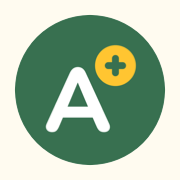
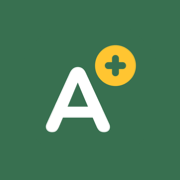
Iteración 2 · bloques B y C: FAB y botones MD3, icono y reinicio diario
- FAB: el «+» gira a «×» y el botón abierto es un círculo
- Connected button group sin esquinas cortadas (radios en px reales)
- Iconos de Android e iPhone sobre fondo verde
- Datos de demo reiniciados cada día en modo demo (DemoDailyResetService, con tests)

diff --git a/backend/src/seed/demo-daily-reset.service.ts b/backend/src/seed/demo-daily-reset.service.ts
@@ -1,0 +1,70 @@
+import {
+  Injectable,
+  Logger,
+  OnApplicationBootstrap,
+  OnModuleDestroy,
+} from '@nestjs/common';
+import { InjectModel } from '@nestjs/mongoose';
+import { Model } from 'mongoose';
+import { AppConfigService } from '../config/app-config.service.js';
+import { Preferences } from '../preferences/preferences.schema.js';
+import { User } from '../users/user.schema.js';
+import { DemoSeedService } from './demo-seed.service.js';
+
+const CHECK_EVERY_MS = 30 * 60 * 1000;
+
+/**
+ * Modo demo: los datos del usuario de demo están pensados para «hoy».
+ * Al arrancar y cada 30 minutos se mira si se crearon otro día; si es así, se reinician.
+ * (Lo que se haya apuntado ese mismo día se conserva hasta el día siguiente.)
+ */
+@Injectable()
+export class DemoDailyResetService
+  implements OnApplicationBootstrap, OnModuleDestroy
+{
+  private readonly logger = new Logger(DemoDailyResetService.name);
+  private timer: NodeJS.Timeout | null = null;
+  private running = false;
+
+  constructor(
+    private readonly appConfig: AppConfigService,
+    private readonly seed: DemoSeedService,
+    @InjectModel(User.name) private readonly users: Model<User>,
+    @InjectModel(Preferences.name) private readonly prefs: Model<Preferences>,
+  ) {}
+
+  onApplicationBootstrap(): void {
+    if (!this.appConfig.demoDailyReset) return;
+    if (!this.appConfig.demoUserEmail || !this.appConfig.demoUserPassword)
+      return;
+    void this.check();
+    this.timer = setInterval(() => void this.check(), CHECK_EVERY_MS);
+    this.timer.unref();
+  }
+
+  onModuleDestroy(): void {
+    if (this.timer) clearInterval(this.timer);
+  }
+
+  /** Reinicia si los datos de demo no son de hoy. Devuelve si ha reiniciado. */
+  async check(): Promise<boolean> {
+    if (this.running) return false;
+    this.running = true;
+    try {
+      const email = this.appConfig.demoUserEmail.trim().toLowerCase();
+      const user = await this.users.findOne({ email }).lean().exec();
+      const prefs = user
+        ? await this.prefs.findOne({ user: user._id }).lean().exec()
+        : null;
+      if (prefs?.demoSeededOn === this.appConfig.today) return false;
+      await this.seed.reset(email, this.appConfig.demoUserPassword);
+      this.logger.log(`Datos de demo reiniciados para el ${this.appConfig.today}`);
+      return true;
+    } catch (err) {
+      this.logger.error(`No se han podido reiniciar los datos de demo: ${String(err)}`);
+      return false;
+    } finally {
+      this.running = false;
+    }
+  }
+}

diff --git a/backend/src/seed/demo-daily-reset.service.spec.ts b/backend/src/seed/demo-daily-reset.service.spec.ts
@@ -1,0 +1,61 @@
+import { ConfigService } from '@nestjs/config';
+import type { Model } from 'mongoose';
+import { AppConfigService } from '../config/app-config.service.js';
+import type { Preferences } from '../preferences/preferences.schema.js';
+import type { User } from '../users/user.schema.js';
+import { DemoDailyResetService } from './demo-daily-reset.service.js';
+import type { DemoSeedService } from './demo-seed.service.js';
+
+const env = {
+  DEMO_MODE: 'true',
+  DEMO_TODAY: '2026-11-25',
+  DEMO_USER_EMAIL: 'demo@apunta.cat',
+  DEMO_USER_PASSWORD: 'contrasenya-demo',
+};
+const query = <T>(value: T) => ({
+  lean: () => ({ exec: () => Promise.resolve(value) }),
+});
+
+function make(seededOn: string | null, userExists = true) {
+  const reset = vi.fn().mockResolvedValue({});
+  const users = {
+    findOne: () => query(userExists ? { _id: 'u1' } : null),
+  } as unknown as Model<User>;
+  const prefs = {
+    findOne: () => query(seededOn === undefined ? null : { demoSeededOn: seededOn }),
+  } as unknown as Model<Preferences>;
+  const service = new DemoDailyResetService(
+    new AppConfigService(new ConfigService(env)),
+    { reset } as unknown as DemoSeedService,
+    users,
+    prefs,
+  );
+  return { service, reset };
+}
+
+describe('DemoDailyResetService', () => {
+  it('reinicia si los datos de demo son de otro día', async () => {
+    const { service, reset } = make('2026-11-24');
+    expect(await service.check()).toBe(true);
+    expect(reset).toHaveBeenCalledWith('demo@apunta.cat', 'contrasenya-demo');
+  });
+
+  it('no reinicia si ya son de hoy', async () => {
+    const { service, reset } = make('2026-11-25');
+    expect(await service.check()).toBe(false);
+    expect(reset).not.toHaveBeenCalled();
+  });
+
+  it('crea los datos si el usuario de demo no existe', async () => {
+    const { service, reset } = make(null, false);
+    expect(await service.check()).toBe(true);
+    expect(reset).toHaveBeenCalled();
+  });
+
+  it('DEMO_DAILY_RESET=false lo apaga', () => {
+    const config = new AppConfigService(
+      new ConfigService({ ...env, DEMO_DAILY_RESET: 'false' }),
+    );
+    expect(config.demoDailyReset).toBe(false);
+  });
+});

diff --git a/frontend/src/app/shared/components/button-group/button-group.ts b/frontend/src/app/shared/components/button-group/button-group.ts
@@ -35,7 +35,10 @@ export interface ButtonGroupOption {
     </div>
   `,
   styles: `
-    .group { display: flex; gap: var(--space-25); }
+    /* Connected button group (MD3 Expressive): 2 dp entre opciones, extremos redondos, interiores de 8.
+       Radios en px reales (mitad de la altura): con 9999px el navegador reducía también las esquinas
+       interiores y la opción no elegida parecía cortada. */
+    .group { --round: calc(var(--size-button-s) / 2); display: flex; gap: var(--space-25); }
     .option {
       position: relative;
       flex: 1;
@@ -54,9 +57,10 @@ export interface ButtonGroupOption {
     .option::after { content: ''; position: absolute; inset: 0; border-radius: inherit; background: currentColor; opacity: 0; transition: opacity var(--motion-effects); }
     .option:hover::after { opacity: var(--opacity-state-hover); }
     .option:active::after { opacity: var(--opacity-state-pressed); }
-    .first { border-top-left-radius: var(--shape-corner-full); border-bottom-left-radius: var(--shape-corner-full); }
-    .last { border-top-right-radius: var(--shape-corner-full); border-bottom-right-radius: var(--shape-corner-full); }
-    .selected { border-radius: var(--shape-corner-full); background: var(--color-primary); color: var(--color-on-primary); }
+    .first { border-top-left-radius: var(--round); border-bottom-left-radius: var(--round); }
+    .last { border-top-right-radius: var(--round); border-bottom-right-radius: var(--round); }
+    .selected { border-radius: var(--round); background: var(--color-primary); color: var(--color-on-primary); }
+    .option:focus-visible { outline: var(--size-focus-ring, 3px) solid var(--color-secondary); outline-offset: 2px; }
   `,
 })
 export class ButtonGroup {

diff --git a/frontend/src/app/shared/components/fab/fab.scss b/frontend/src/app/shared/components/fab/fab.scss
@@ -26,6 +26,7 @@
   cursor: pointer;
   transition:
     border-radius var(--motion-spatial-fast),
+    background-color var(--motion-effects),
     box-shadow var(--motion-effects);
   -webkit-tap-highlight-color: transparent;
 }
@@ -43,10 +44,19 @@
 .fab:hover { box-shadow: var(--elevation-level4); }
 .fab:hover::after { opacity: var(--opacity-state-hover); }
 .fab:active::after { opacity: var(--opacity-state-pressed); }
-/* Abierto: el botón de cerrar es redondo (FAB menu MD3 Expressive).
-   28 px = la mitad de 56: redondo sin pasar por 9999px, que al cerrarse
+/* Abierto (FAB menu MD3 Expressive): círculo y el «+» gira 45° hasta ser «×».
+   28 px = la mitad de 56: círculo sin pasar por 9999px, que al animar
    hacía saltar la forma a un cuadrado con esquinas de pico. */
-.fab.open { border-radius: var(--shape-corner-extra-large); }
+.fab.open {
+  border-radius: calc(var(--size-fab) / 2);
+  background: var(--color-primary);
+  color: var(--color-on-primary);
+}
+.plus { transition: transform var(--motion-spatial-fast); }
+.fab.open .plus { transform: rotate(45deg); }
+@media (prefers-reduced-motion: reduce) {
+  .fab, .plus { transition: none; }
+}
 
 .scrim {
   position: fixed;

diff --git a/backend/src/seed/seed.module.ts b/backend/src/seed/seed.module.ts
@@ -9,6 +9,7 @@ import {
 import { SubjectsModule } from '../subjects/subjects.module.js';
 import { User, UserSchema } from '../users/user.schema.js';
 import { UsersModule } from '../users/users.module.js';
+import { DemoDailyResetService } from './demo-daily-reset.service.js';
 import { DemoSeedService } from './demo-seed.service.js';
 import { DemoController } from './demo.controller.js';
 
@@ -24,7 +25,7 @@ import { DemoController } from './demo.controller.js';
     ]),
   ],
   controllers: [DemoController],
-  providers: [DemoSeedService],
+  providers: [DemoSeedService, DemoDailyResetService],
   exports: [DemoSeedService],
 })
 export class SeedModule {}

diff --git a/backend/src/config/app-config.service.ts b/backend/src/config/app-config.service.ts
@@ -46,6 +46,11 @@ export class AppConfigService {
     return this.config.get<string>('DEMO_MODE') === 'true';
   }
 
+  /** En modo demo, los datos del usuario de demo se reinician cada día (DEMO_DAILY_RESET=false lo apaga). */
+  get demoDailyReset(): boolean {
+    return this.demoMode && this.config.get<string>('DEMO_DAILY_RESET') !== 'false';
+  }
+
   /**
    * Fecha «de hoy» en formato AAAA-MM-DD (hora de Madrid).
    * Si DEMO_TODAY tiene valor, se usa esa fecha; si está vacía, la real.

diff --git a/frontend/src/app/shared/components/fab/fab.ts b/frontend/src/app/shared/components/fab/fab.ts
@@ -34,7 +34,8 @@ import { SnackbarService } from '../snackbar/snackbar.service';
       (click)="open.set(!open())"
       (keydown.escape)="open.set(false)"
     >
-      <ap-icon [name]="open() ? 'close' : 'add'" />
+      <!-- Un solo icono «+» que gira 45° hasta quedar como «×» (MD3 FAB menu). -->
+      <ap-icon class="plus" name="add" />
     </button>
   `,
   styleUrl: './fab.scss',

diff --git a/backend/src/preferences/preferences.schema.ts b/backend/src/preferences/preferences.schema.ts
@@ -36,6 +36,10 @@ export class Preferences {
 
   @Prop({ type: Date, default: null })
   lastSyncAt: Date | null;
+
+  /** Solo usuario de demo: día (AAAA-MM-DD) en que se crearon sus datos. */
+  @Prop({ type: String, default: null })
+  demoSeededOn: string | null;
 }
 
 export type PreferencesDocument = HydratedDocument<Preferences>;

diff --git a/backend/src/config/env.validation.ts b/backend/src/config/env.validation.ts
@@ -61,6 +61,11 @@ class EnvironmentVariables {
   @IsOptional()
   @IsString()
   DEMO_USER_PASSWORD?: string;
+
+  /** Reiniciar los datos de demo cada día (por defecto, sí en modo demo). */
+  @IsOptional()
+  @IsBooleanString()
+  DEMO_DAILY_RESET?: string;
 }
 
 export function validateEnv(config: Record<string, unknown>) {

diff --git a/backend/src/seed/demo-seed.service.ts b/backend/src/seed/demo-seed.service.ts
@@ -107,6 +107,7 @@ export class DemoSeedService {
       groupBy: 'subjects',
       markWith: 'colors',
       lastSyncAt: new Date(DEMO_LAST_SYNC.getTime() + shift * 86_400_000),
+      demoSeededOn: this.appConfig.today,
     });
 
     return {

diff --git a/backend/test/setup-e2e.ts b/backend/test/setup-e2e.ts
@@ -24,3 +24,5 @@ if (testUri) {
 }
 process.env.DEMO_TODAY = '2026-11-04';
 process.env.DEMO_MODE = 'true';
+// Los tests reinician los datos de demo ellos mismos.
+process.env.DEMO_DAILY_RESET = 'false';

diff --git a/CLAUDE.md b/CLAUDE.md
@@ -430,6 +430,12 @@ Bloque A (hecho):
 - Editar: `.page.editing` con margen arriba (la etiqueta del primer campo ya no se corta) y descripción/«Què he d’estudiar» de 3 líneas.
 - Nombre de la asignatura en negrita (700) en filas de tarea, checklist de Compartir y vista previa de Personalitzar.
 
+Bloques B y C (hechos):
+- FAB MD3: cerrado esquina 16 y `primary-container`; abierto círculo (`size-fab / 2`) en `primary` y el «+» (un solo icono) gira 45° hasta «×». Sin giro con «reducir movimiento».
+- Connected button group: radios en px reales (`--round` = mitad de la altura). Con 9999px el navegador reducía todas las esquinas y la opción no elegida parecía cortada. 2 dp entre opciones, interiores 8, elegida redonda con ✓.
+- Iconos: `apple-touch-icon.png` y `icon-maskable-512.png` sobre verde `#387050` (sin el borde del círculo); `manifest.webmanifest` `background_color` verde.
+- Reinicio diario de los datos de demo: `DemoDailyResetService` (al arrancar y cada 30 min) compara `preferences.demoSeededOn` con hoy y llama a `DemoSeedService.reset`. Solo en modo demo; `DEMO_DAILY_RESET=false` lo apaga (los tests e2e lo apagan). Lo apuntado se conserva hasta el día siguiente.
+
 ## 2.8 Estado de las fases
 - [x] 0. Lectura y preguntas
 - [x] 1. Repositorio base
@@ -441,4 +447,4 @@ Bloque A (hecho):
 - [x] 7. Flujos transversales y estados
 - [x] 8. Despliegue (Render + Atlas)
 - [ ] Iteración 1: [x] A · [x] B · [x] C · [x] D · [x] E · [x] F · [x] G · [x] Design System
-- [ ] Iteración 2: [x] A · [ ] B · [ ] C · [ ] D
+- [ ] Iteración 2: [x] A · [x] B · [x] C · [ ] D
